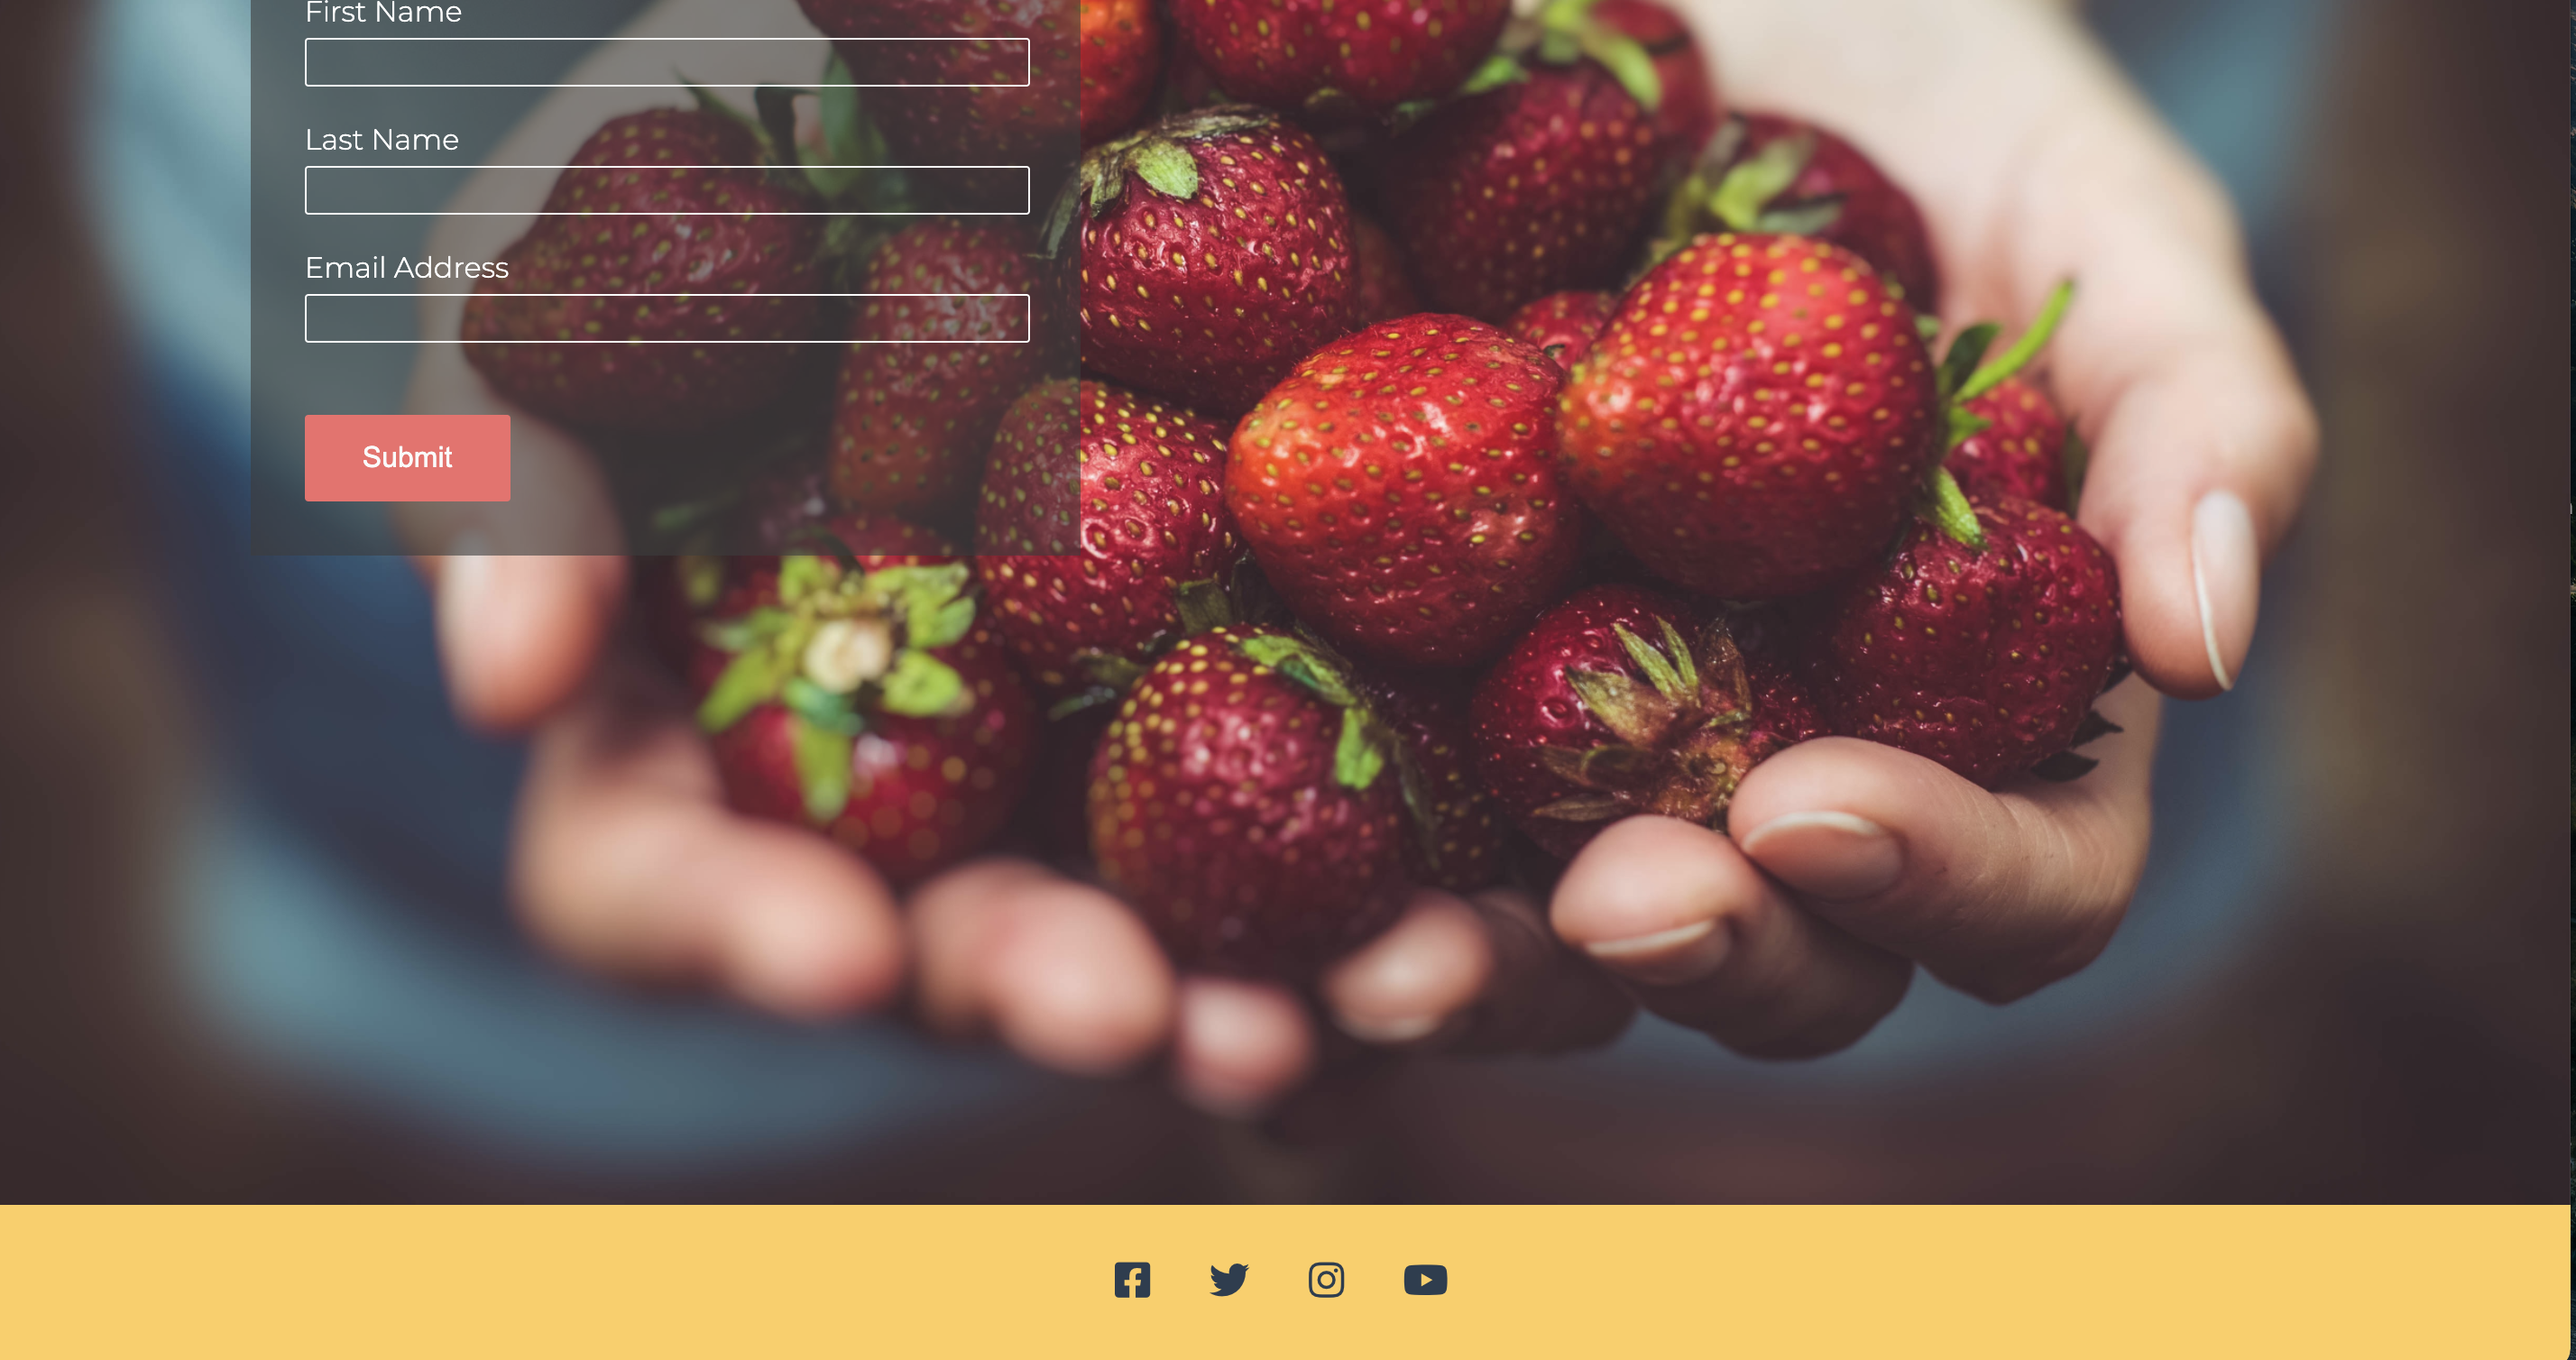
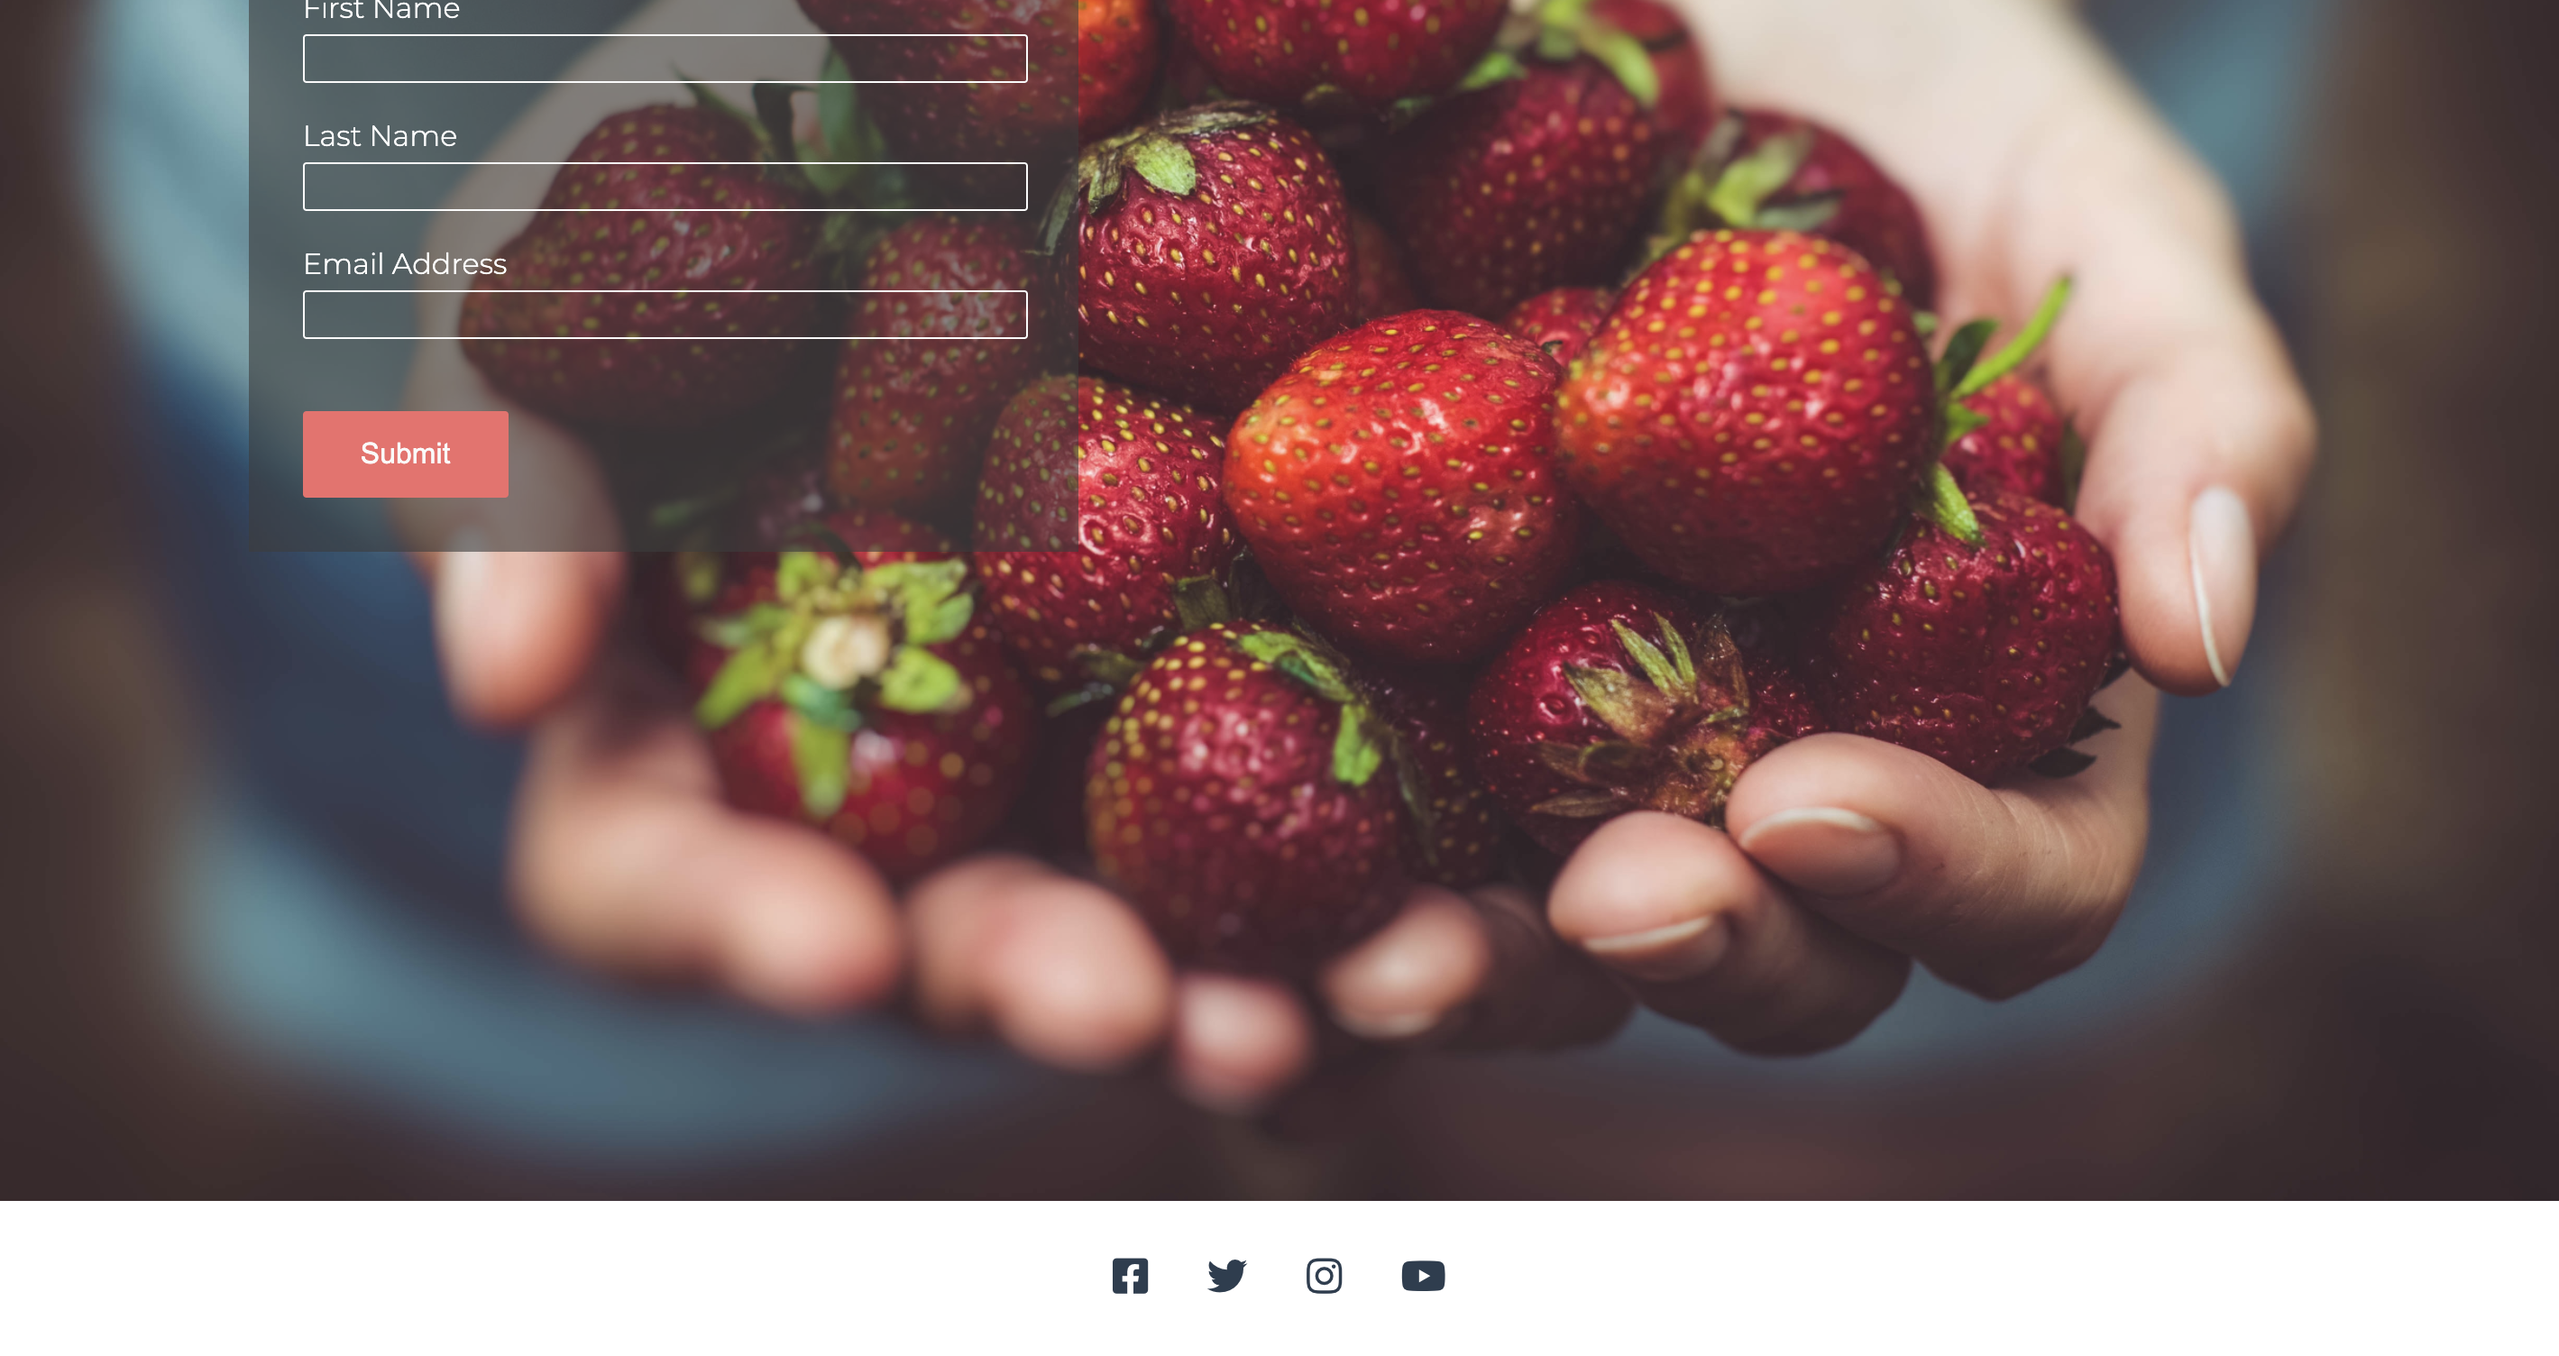
Add more images to see the process on my web site

diff --git a/assets/css/style.css b/assets/css/style.css
@@ -103,7 +103,7 @@ h1 {
 /* For larger to medium screens  size from 1200px wide and down */
 
 @media screen and (max-width: 1200px){
-    #club-fibres{
+    #club-fibers{
         width: 65%;
         height: 1200px;
         margin: 0 auto;
@@ -140,7 +140,7 @@ h1 {
         left: 0;
     }
 
-    #club-fibres {
+    #club-fibers {
         width: 90%;
         height: 1200px;
         margin: 0 auto;
@@ -174,7 +174,7 @@ h1 {
 
 /* ---------------- Text About ------------------------ */
 
-#club-fibres {
+#club-fibers {
     height: 600px;
     padding-bottom: 60px;
     padding-left: 30px;
@@ -287,22 +287,22 @@ hr {
 
 #video-container { 
     height: 900px;
-    background-color: #9BC7C5; 
-    padding-top: 5px;
+    background-color: white; 
+    padding-top: 60px;
     padding-bottom: 1px;
 }
 
 .fibers-video {
-    padding: 20px 5px 20px 0;
+    padding: 40px 5px 20px 0;
     text-align: center;
     margin: 30px 0 0 0;
     font-size: 160%;
 }
 
 #title-video {
-    margin: 60px 0 30px 0;
-    color: white;
-    padding: 40px 10 10 10;
+    margin: 30px 0 30px 0;
+    color: #2C3E50;
+    padding: 10px 10 10 10;
 }
 
 /* Form Contact Us */
@@ -365,7 +365,7 @@ hr {
 
 footer{
     height: 90px;   
-    background: #FECE5B; 
+    /* background: #FECE5B;  */
 }
 
 .social-networks {

diff --git a/index.html b/index.html
@@ -34,7 +34,7 @@
     </div>
   </section>
 
-  <section id="club-fibres">
+  <section id="club-fibers">
     <h2 id="title-text-center">Why we should eat more fibers?</h2>
     <div id="box-text-one">
         <h2 id="title-text-one">Change your diet today <i class="fas fa-apple-alt"></i></h2>

diff --git a/README.md b/README.md
@@ -1,12 +1,9 @@
 # EAT FIBERS
 
 Eat fibers is a site that wants to encourage people to add more fibers to their day-to-day diet. 
-<<<<<<< HEAD
-![Landing Page Responsive](/workspace/eat-fibers/assets/images/my-landining.png)
-=======
 
->>>>>>> c756671639fb30207fe4036e72ac45cf98f1afd6
-
+![Landing Page](/workspace/eat-fibers/assets/images/landing-page.png)
+![Landing Page](/workspace/eat-fibers/assets/images/club-fibers.png)
 
 FEATURES
 
@@ -18,65 +15,53 @@ Here you will find more info how you can find fibers
     - This section will allow the user to easily navigate from page to page across all devices without having to revert back to the previous page via the ‘back’ button.
 
 
-
  - The landing page image
 
     - The landing includes a photograph with text overlay to allow the user to see what is this site about.
     - I've chosen this image because is eye-catching. 
     - I also add a text box on the lef hand side of the image to be more dramatic.
 
-
-            IMAGE HERE
-
-
+![Landing Page](/workspace/eat-fibers/assets/images/landing-page.png)
+![Landing Page](/workspace/eat-fibers/assets/images/club-fibers.png)
 
 - Club Fibers Section
 
    - The club fibers section will allow the user to have some information about why is so important to consume fibers every single day
 
 
-                IMAGE HERE
-
+  ![Club fibers](/workspace/eat-fibers/assets/images/landing-page.png)
 
 - The Footer
 
     - The footer section includes links to the relevant social media sites for Eat Fibers. The links will open to a new tab to allow easy navigation for the user.    
     - The footer is valuable to the user as it encourages them to keep connected via social media.
 
-
-                IMAGE HERE
-
-
+![Footer](/workspace/eat-fibers/assets/images/footer.png)
 
 - Find Out more page
 
     - This section will allow the user to see a short video explain what is fibers and how they can get from. 
     - I've added the video to keep the user on my page and navigation more as well. and once they open the page they won't leave mine.
 
-
-                IMAGE HERE
-
+![Video](/workspace/eat-fibers/assets/images/video-01.png)
+![Video](/workspace/eat-fibers/assets/images/video-02.png)
 
  - Gellery Page
 
     - The gallery will provide the user with some ideas of what they could eat and drink on a daily basis.
 
-
-                IMAGE HERE
-
-
+![Video](/workspace/eat-fibers/assets/images/gallery-01.png)
+![Video](/workspace/eat-fibers/assets/images/gallery-02.png)
 
  - The Concat Us Page
 
     - This page will allow the user to get in touch with us in case they have any questions about fibers.
 
-
-            IMAGE HERE  
-
+![Video](/workspace/eat-fibers/assets/images/contact-01.png)
+![Video](/workspace/eat-fibers/assets/images/contact-02.png)
 
  - Features Left to Implement
 
-    - I want to change the top header of the find out more page.
     - I want to add some pictures behind the section title-text-one and title-text-two.
     - I want to place the pictures on the gallery section I want the bottom part,  make a perfect square!
 
@@ -85,8 +70,6 @@ Here you will find more info how you can find fibers
  - TESTING
     - I´ve run the website on the differents web servers, such as Google, Safari and Fire Fox.
     
-
-
 
 
 - Unfixed Bugs
